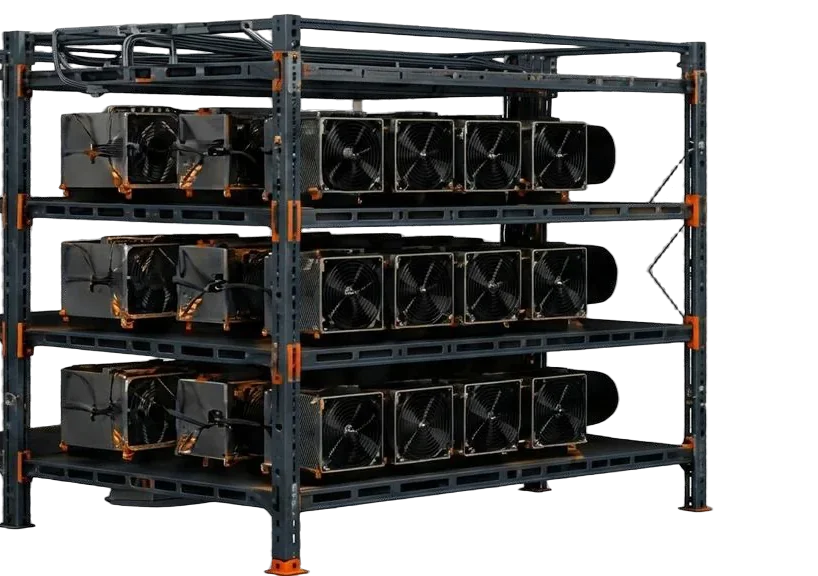
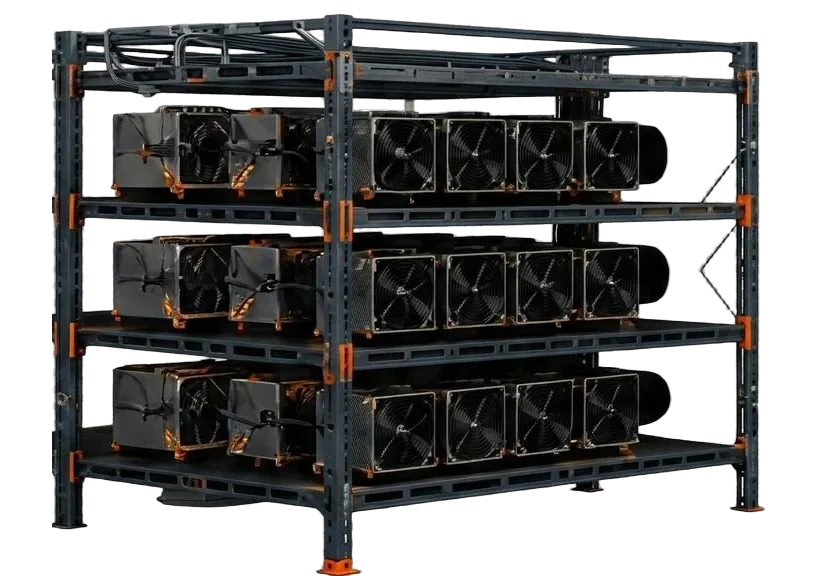
Майнинг: центровка картинок стеллажа и преимуществ

diff --git a/mining.html b/mining.html
@@ -28,7 +28,7 @@
   <link href="https://fonts.googleapis.com/css2?family=Golos+Text:wght@400;500;600;700&display=swap" rel="stylesheet">
   <link rel="stylesheet" href="css/style.css?v=80">
   <link rel="stylesheet" href="css/mining.css?v=7">
-  <link rel="stylesheet" href="css/unify.css?v=91">
+  <link rel="stylesheet" href="css/unify.css?v=92">
 <link rel="stylesheet" href="css/light.css?v=1"><script src="js/theme.js?v=1"></script></head>
 <body class="page-mining">
 
@@ -184,7 +184,7 @@
           <li>Прочная сталь с антикоррозийным покрытием</li>
         </ul>
       </div>
-      <img class="m-build__img" src="img/mining/construction.webp" width="523" height="368" alt="Стеллаж для майнинговой фермы с ASIC-майнерами" loading="lazy">
+      <img class="m-build__img" src="img/mining/construction.webp?v=2" width="523" height="368" alt="Стеллаж для майнинговой фермы с ASIC-майнерами" loading="lazy">
       <div class="m-why">
         <h3 class="m-why__title">Почему это важно</h3>
         <ul class="checks">

diff --git a/css/unify.css b/css/unify.css
@@ -406,3 +406,6 @@ body .m-hero + .section,body .w-types{padding-top:var(--section-y)}
 .revs-dots button{width:8px;height:8px;padding:0;background:#585858;border:0;border-radius:2px;cursor:pointer;transition:background-color .25s,width .25s}
 .revs-dots button.is-active{width:24px;background:var(--c-accent)}
 html[data-theme="light"] body .revs-dots button:not(.is-active){background:#7a7a7a}
+@media (max-width:768px){
+body .m-adv__img{display:block;margin-left:auto !important;margin-right:auto !important}
+}

diff --git a/catalog-kartotechnye.html b/catalog-kartotechnye.html
@@ -34,7 +34,7 @@
   <link href="https://fonts.googleapis.com/css2?family=Golos+Text:wght@400;500;600;700&display=swap" rel="stylesheet">
   <link rel="stylesheet" href="css/style.css?v=80">
   <link rel="stylesheet" href="css/catalog.css?v=22">
-  <link rel="stylesheet" href="css/unify.css?v=91">
+  <link rel="stylesheet" href="css/unify.css?v=92">
 <link rel="stylesheet" href="css/light.css?v=1"><script src="js/theme.js?v=1"></script></head>
 <body class="page-catalog">
 

diff --git a/catalog.html b/catalog.html
@@ -34,7 +34,7 @@
   <link href="https://fonts.googleapis.com/css2?family=Golos+Text:wght@400;500;600;700&display=swap" rel="stylesheet">
   <link rel="stylesheet" href="css/style.css?v=80">
   <link rel="stylesheet" href="css/catalog.css?v=22">
-  <link rel="stylesheet" href="css/unify.css?v=91">
+  <link rel="stylesheet" href="css/unify.css?v=92">
 <link rel="stylesheet" href="css/light.css?v=1"><script src="js/theme.js?v=1"></script></head>
 <body class="page-catalog">
 

diff --git a/index.html b/index.html
@@ -33,7 +33,7 @@
   <link rel="preconnect" href="https://fonts.gstatic.com" crossorigin>
   <link href="https://fonts.googleapis.com/css2?family=Golos+Text:wght@400;500;600;700&display=swap" rel="stylesheet">
   <link rel="stylesheet" href="css/style.css?v=80">
-  <link rel="stylesheet" href="css/unify.css?v=91">
+  <link rel="stylesheet" href="css/unify.css?v=92">
 <link rel="stylesheet" href="css/light.css?v=1"><script src="js/theme.js?v=1"></script></head>
 <body>
 

diff --git a/rack3d.html b/rack3d.html
@@ -14,7 +14,7 @@
   <link href="https://fonts.googleapis.com/css2?family=Golos+Text:wght@400;500;600;700&display=swap" rel="stylesheet">
   <link rel="stylesheet" href="css/style.css?v=80">
   <link rel="stylesheet" href="css/rack3d.css?v=3">
-  <link rel="stylesheet" href="css/unify.css?v=91">
+  <link rel="stylesheet" href="css/unify.css?v=92">
 <link rel="stylesheet" href="css/light.css?v=1"><script src="js/theme.js?v=1"></script></head>
 <body>
 

diff --git a/mobilnye-stellazhi.html b/mobilnye-stellazhi.html
@@ -38,7 +38,7 @@
   <link rel="stylesheet" href="css/racks.css?v=53">
   <link rel="stylesheet" href="css/deep.css?v=23">
   <link rel="stylesheet" href="css/mobile.css?v=32">
-  <link rel="stylesheet" href="css/unify.css?v=91">
+  <link rel="stylesheet" href="css/unify.css?v=92">
 <link rel="stylesheet" href="css/light.css?v=1"><script src="js/theme.js?v=1"></script></head>
 <body class="page-racks page-racks--fold page-deep page-mobile">
 

diff --git a/srednegruzovye-stellazhi.html b/srednegruzovye-stellazhi.html
@@ -36,7 +36,7 @@
   <link rel="stylesheet" href="css/mining.css?v=7">
   <link rel="stylesheet" href="css/catalog.css?v=22">
   <link rel="stylesheet" href="css/racks.css?v=53">
-  <link rel="stylesheet" href="css/unify.css?v=91">
+  <link rel="stylesheet" href="css/unify.css?v=92">
 <link rel="stylesheet" href="css/light.css?v=1"><script src="js/theme.js?v=1"></script></head>
 <body class="page-racks page-racks--fold page-racks--s">
 

diff --git a/glubinnye-stellazhi.html b/glubinnye-stellazhi.html
@@ -37,7 +37,7 @@
   <link rel="stylesheet" href="css/catalog.css?v=22">
   <link rel="stylesheet" href="css/racks.css?v=53">
   <link rel="stylesheet" href="css/deep.css?v=23">
-  <link rel="stylesheet" href="css/unify.css?v=91">
+  <link rel="stylesheet" href="css/unify.css?v=92">
 <link rel="stylesheet" href="css/light.css?v=1"><script src="js/theme.js?v=1"></script></head>
 <body class="page-racks page-racks--fold page-deep">
 

diff --git a/mezoninnye-stellazhi.html b/mezoninnye-stellazhi.html
@@ -36,7 +36,7 @@
   <link rel="stylesheet" href="css/mining.css?v=7">
   <link rel="stylesheet" href="css/catalog.css?v=22">
   <link rel="stylesheet" href="css/racks.css?v=53">
-  <link rel="stylesheet" href="css/unify.css?v=91">
+  <link rel="stylesheet" href="css/unify.css?v=92">
 <link rel="stylesheet" href="css/light.css?v=1"><script src="js/theme.js?v=1"></script></head>
 <body class="page-racks page-racks--fold">
 

diff --git a/palletnye-frontalnye-stellazhi.html b/palletnye-frontalnye-stellazhi.html
@@ -36,7 +36,7 @@
   <link rel="stylesheet" href="css/mining.css?v=7">
   <link rel="stylesheet" href="css/catalog.css?v=22">
   <link rel="stylesheet" href="css/racks.css?v=53">
-  <link rel="stylesheet" href="css/unify.css?v=91">
+  <link rel="stylesheet" href="css/unify.css?v=92">
 <link rel="stylesheet" href="css/light.css?v=1"><script src="js/theme.js?v=1"></script></head>
 <body class="page-racks page-racks--fold">
 

diff --git a/product-sp-200.html b/product-sp-200.html
@@ -30,7 +30,7 @@
   <link rel="stylesheet" href="css/catalog.css?v=22">
   <link rel="stylesheet" href="css/racks.css?v=53">
   <link rel="stylesheet" href="css/product.css?v=5">
-  <link rel="stylesheet" href="css/unify.css?v=91">
+  <link rel="stylesheet" href="css/unify.css?v=92">
 <link rel="stylesheet" href="css/light.css?v=1"><script src="js/theme.js?v=1"></script></head>
 <body class="page-catalog page-product">
 
